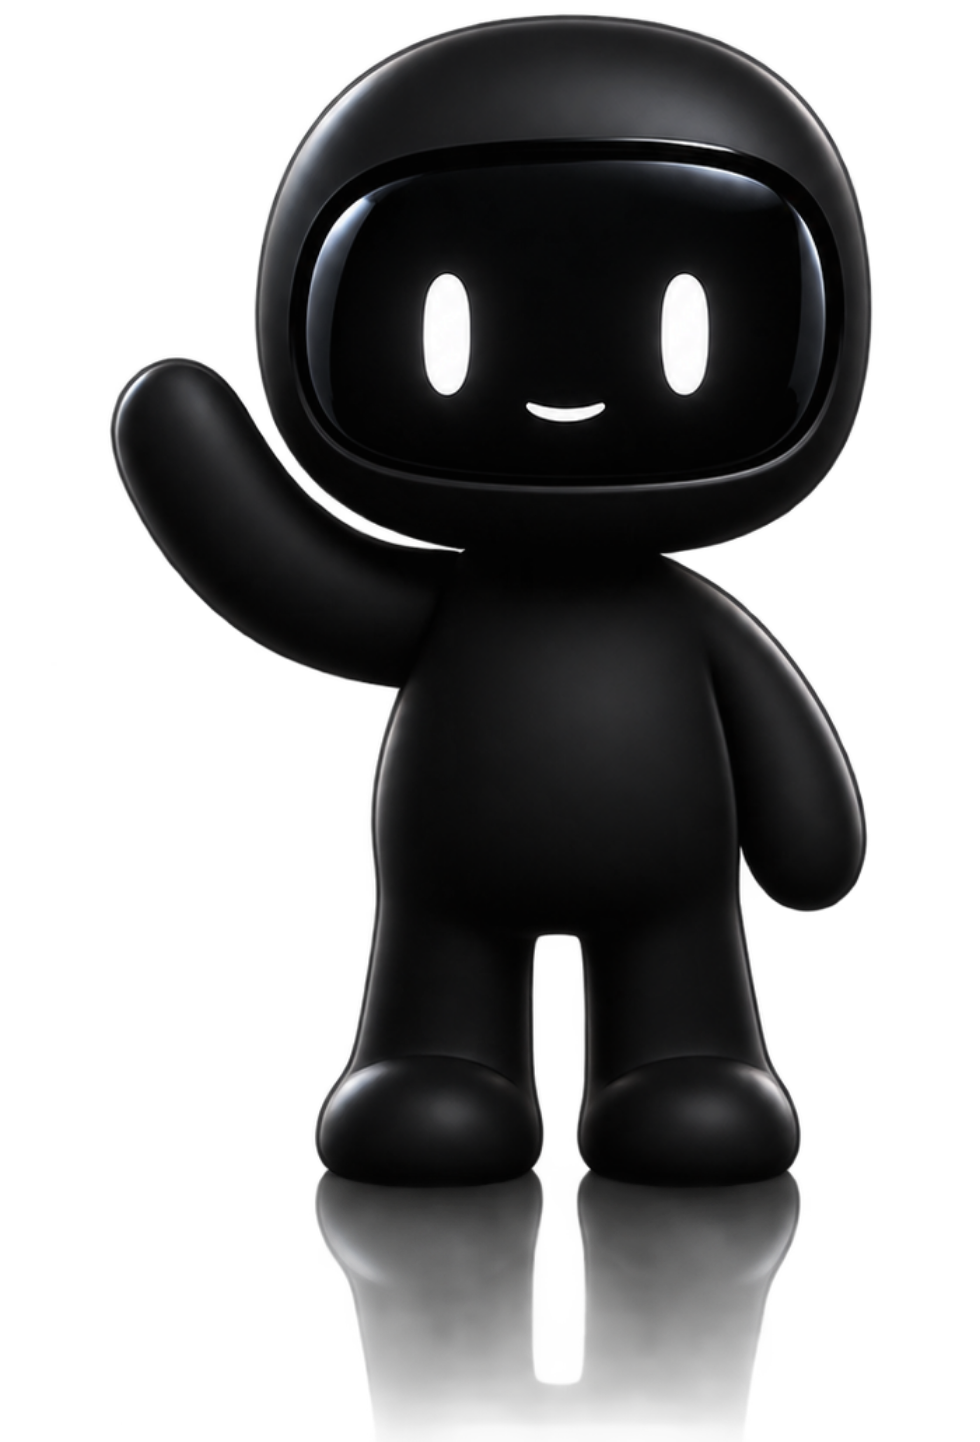
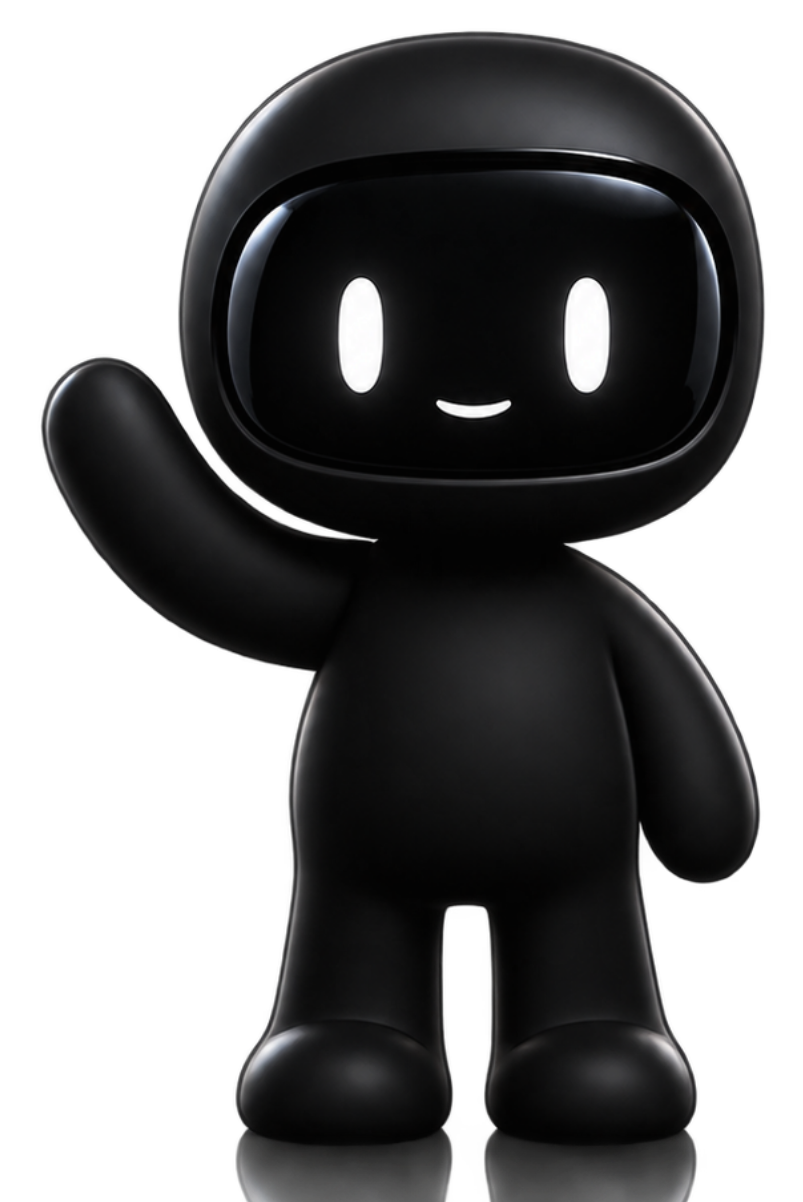
Cut the reflections, which is also what was wrong with the spacing
Both of Brandon's notes were the same problem. The renders each came with a
floor reflection hanging below the feet, and on a flat black page that
reflection is a floor which does not exist - but worse, it is a DIFFERENT
LENGTH in every pose. So his feet sat at a different place in every file,
his baseline moved from section to section, and the gap above whatever came
next was never the gap it looked like in the markup. The hero read as badly
spaced for exactly that reason: the space under him was mostly reflection.

Every pose is now cropped to his body - top of the head to the soles of his
feet - and nothing else. Feet land at 97-100% of canvas in all six, so he
has one baseline everywhere and the spacing in the markup is the spacing on
screen.

Finding the feet automatically is the one trick worth writing down: the last
row containing a genuinely bright pixel. The body carries specular
highlights and the reflection does not, so brightness separates them even
where alpha cannot - and for the original idle render alpha genuinely
cannot, because its reflection is opaque black rather than faded.

Every scale was recomputed against the new canvases, and so were the two
clip fractions, which are proportions of canvas height and therefore moved
when the canvas lost its reflection: the leaning arm from 41.3% to 46.5%,
the crossed arms to 47.8%. His arm still lands 1px off the price card's
edge, and now clears the line above by 18px rather than 5.

diff --git a/src/pages/Sales.tsx b/src/pages/Sales.tsx
@@ -705,7 +705,10 @@ export default function Sales() {
                   -top-[86px] h-[86px] sm:-top-[112px] sm:h-[112px]"
               >
                 {/*
-                  The window shows his head AND his crossed arms, which is
+                  The window is 47.8% of his height, which is where the
+                  underside of his crossed arms sits - so the card's edge
+                  lands under the arms rather than through them. It shows his
+                  head AND his crossed arms, which is
                   the whole reason this pose is here - clipped at head height
                   he would just be the idle pose again and the skepticism
                   would be invisible. It lands so the card's edge cuts just
@@ -855,8 +858,8 @@ export default function Sales() {
             objection: he is behind the edge rather than pasted over it.
 
             The window height is not a look-right guess - it is measured. The
-            underside of his propped arm sits at 41.3% of his height in the
-            render, so the window is 41.3% of whatever height he is given,
+            underside of his propped arm sits at 46.5% of his height in the
+            render, so the window is 46.5% of whatever height he is given,
             which puts the card's edge exactly where his arm comes down. Cut
             lower and the arm rests on nothing, which is what a taller window
             did here and what Brandon spotted immediately.
@@ -865,7 +868,7 @@ export default function Sales() {
             <div
               aria-hidden="true"
               className="pointer-events-none absolute left-4 sm:left-6 overflow-hidden
-                -top-[70px] h-[70px] sm:-top-[92px] sm:h-[92px]"
+                -top-[79px] h-[79px] sm:-top-[104px] sm:h-[104px]"
             >
               <Mascot pose="lean" height={120} className="sm:hidden" />
               <Mascot pose="lean" height={158} className="hidden sm:block" />

diff --git a/src/components/shared/Mascot.tsx b/src/components/shared/Mascot.tsx
@@ -30,18 +30,18 @@ import mascotSlump from '../../assets/mascot-slump.png';
   by that percentage.
 */
 const POSES = {
-  idle:    { src: mascotIdle,    scale: 1 },      /* head 51.3% of canvas */
-  wave:    { src: mascotWave,    scale: 1 },      /* head 51.3% */
-  present: { src: mascotPresent, scale: 1.233 },  /* head 41.6% */
-  arms:    { src: mascotArms,    scale: 1.386 },  /* head 37.0% */
-  lean:    { src: mascotLean,    scale: 1.370 },  /* head 37.4% */
+  idle:    { src: mascotIdle,    scale: 1.000 },  /* head 56.3% of canvas */
+  wave:    { src: mascotWave,    scale: 0.961 },  /* head 58.6% */
+  present: { src: mascotPresent, scale: 1.246 },  /* head 45.2% */
+  arms:    { src: mascotArms,    scale: 1.449 },  /* head 38.8% */
+  lean:    { src: mascotLean,    scale: 1.417 },  /* head 39.7% */
   /*
     Slumped. The only pose where the smile is gone - the render has a flat
     line instead - so it is the one to keep away from anything selling. It
     belongs where somebody has just had a bad one: a stopped-out trade, a red
     week, an empty journal after a loss.
   */
-  slump:   { src: mascotSlump,   scale: 1.407 },  /* head 36.5% */
+  slump:   { src: mascotSlump,   scale: 1.496 },  /* head 37.6% */
 } as const;
 
 export type MascotPose = keyof typeof POSES;
